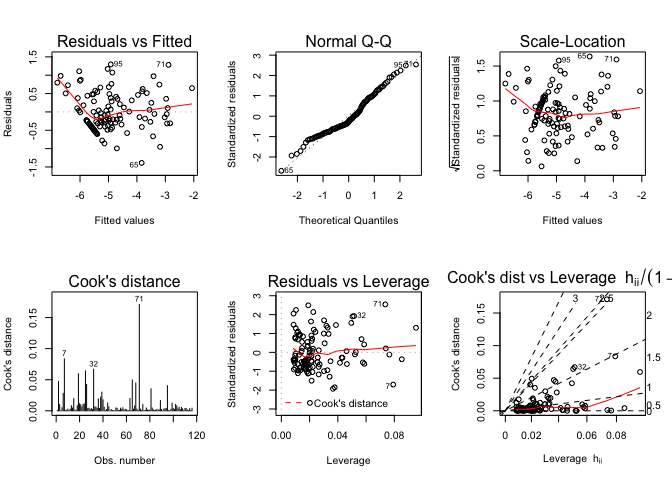
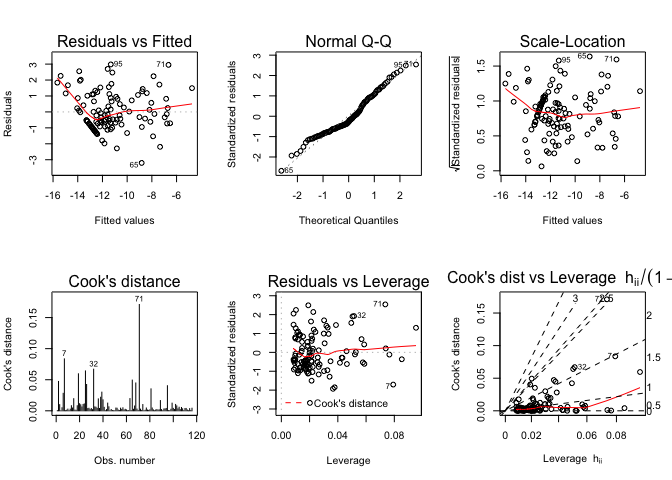
change log10() to log, so that the interpretation of the coef is the elasitic in economics

diff --git a/README.md b/README.md
@@ -57,17 +57,22 @@ Chain](doc/LCA_%20Pet%20Food%20Supply%20Chain%20.png)
 
 # Data description
 
-What kind of data is avialble? How is your data collected? Are there any
-concerns about the data? Which data is the most relevant? Is the data
-easy to acccess? Will the data change over time? What needs to be done
-to the data to get it ready for any downstream analysis?
-
 The dataset for this project is the first pass life cycle assessment
 results for cat and dog food manufacturing. It provides the
 environmental impact information into the pet food supply chain. The LCA
 data was generated through EIO-LCA
 website(<http://www.eiolca.net/cgi-bin/dft/use.pl>). The model for
-getting the LCA data is US 2002 producer price benchmark.
+getting the LCA data is US 2002 producer price benchmark. In order to
+get the dog and cat food manufacturing LCA data, the user needs to
+select “Food beverage and tobacco” sector group, dog and cat food
+manufacturing sector and then the amount of economic activity for this
+sector(e.g. 1 millon dollars). After setting up the sector and economic
+parameters, The user could select different economical and environmental
+impact to get the LCA results. The LCA results are ready for downloading
+as excel files. The raw data was lacking the columns name for different
+impact feature and index for identifying the different sectors and
+sector group. The web scraping is necessary for the columns name and
+NAICS sector code.
 
 # Explore the data
 
@@ -77,7 +82,6 @@ modification, we result a datafarme stored as ’dat\_311111\_1M\_v2.csv.
 ``` r
 # data input
 dat <- read.csv("data/dat_311111_1M_v2.csv")
-
 # Input columns 
 X <- dat %>% 
   select(Coal.TJ, NatGase.TJ, Petrol.TJ, Bio.Waste.TJ, NonFossElec.TJ, Water.Withdrawals.Kgal)
@@ -156,6 +160,8 @@ psych::describe(ys)
 #> POTW.Metal.kg        0.04  7.48    61.88 0.00
 ```
 
+# Clustering for the data
+
 # Fit Models
 
 ## user-define function
@@ -172,12 +178,11 @@ makedata_map <- function(target_nm, dat){
   # retin all inf by log(x + min/100)
   #Xy <- cbind(dat %>% select(Sector) %>% mutate(Sector= Sector %>% as.factor()), log10(Xy + min(Xy[Xy!=0])/100)) 
   # remove all inf= log(0)
-  Xy <- cbind(dat %>% select(Sector), log10(Xy)) 
+  Xy <- cbind(dat %>% select(Sector), log(Xy)) 
   Xy <- Xy[!is.infinite(rowSums(Xy)),] %>% mutate(Sector= Sector %>% as.factor())
   colnames(Xy) <- colnames(Xy) %>% stringr::str_replace_all("\\.","") 
   return(Xy)
 }
-
 bind_coef_star <- function(x) {
   if (stringr::str_detect(x[2] , "\\*")) {
     paste0(x[1], "(",x[2], ")")
@@ -217,7 +222,6 @@ target_list <- tibble(target = c(colnames(CPA),colnames(GHG),colnames(TOX))); ta
 #> 18 Land.kg           
 #> 19 Offiste.kg        
 #> 20 POTW.Metal.kg
-
 # model selection for each impact variable
 bestglm_list <- target_list %>% 
   mutate(data = target %>% 
@@ -232,7 +236,6 @@ bestglm_list <- target_list %>%
   mutate(anv = best_model %>% map(anova)) %>% 
   mutate(statisics = best_model %>% purrr::map(.f = function(m) broom::glance(m))) %>% 
   tidyr::unnest(statisics)
-
 # extract coefficient from the best model of each impact variable
 coef_list <- bestglm_list %>% 
   mutate(coefs = best_model %>% purrr::map(.f=broom::tidy)) %>% 
@@ -240,7 +243,6 @@ coef_list <- bestglm_list %>%
   tidyr::unnest(coefs) %>% 
   select(target, term, estimate) %>% 
   tidyr::spread(key= term, value = estimate)
-
 # extract p-value for each paramters of the best model of each impact variable
 signif_list <- bestglm_list %>% 
   mutate(coefs = best_model %>% purrr::map(.f=broom::tidy)) %>% 
@@ -248,7 +250,6 @@ signif_list <- bestglm_list %>%
   tidyr::unnest(coefs) %>% 
   select(target, term, p.value) %>% 
   tidyr::spread(key= term, value = p.value)
-
 # combind coefficient and p-value to result in a tidy table of the result
 datArray <- abind::abind(coef_list %>% 
                            select(-target) %>% 
@@ -260,7 +261,6 @@ datArray <- abind::abind(coef_list %>%
 coef_signif_list <- bestglm_list %>% 
   select(target, r.squared, adj.r.squared, p.value) %>% 
   cbind(apply(datArray,1:2, bind_coef_star) %>% as_tibble())
-
 # result
 knitr::kable(coef_signif_list)
 ```
@@ -371,7 +371,7 @@ CO.t
 
 <td style="text-align:left;">
 
-\-0.412(\*)
+\-0.948(\*)
 
 </td>
 
@@ -433,7 +433,7 @@ NH3.t
 
 <td style="text-align:left;">
 
-2.3(\*\*\*)
+5.29(\*\*\*)
 
 </td>
 
@@ -497,7 +497,7 @@ NOx.t
 
 <td style="text-align:left;">
 
-1.47(\*\*\*)
+3.39(\*\*\*)
 
 </td>
 
@@ -557,7 +557,7 @@ PM10.t
 
 <td style="text-align:left;">
 
-0.366
+0.842
 
 </td>
 
@@ -617,7 +617,7 @@ PM2.5.t
 
 <td style="text-align:left;">
 
-\-1.9(\*\*\*)
+\-4.38(\*\*\*)
 
 </td>
 
@@ -679,7 +679,7 @@ SO2.t
 
 <td style="text-align:left;">
 
-\-0.33(\*\*)
+\-0.76(\*\*)
 
 </td>
 
@@ -743,7 +743,7 @@ VOC.t
 
 <td style="text-align:left;">
 
-1.19(\*\*\*)
+2.74(\*\*\*)
 
 </td>
 
@@ -803,7 +803,7 @@ Total.t.CO2e
 
 <td style="text-align:left;">
 
-\-0.693(\*\*\*)
+\-1.6(\*\*\*)
 
 </td>
 
@@ -869,7 +869,7 @@ CO2.Fossil.t.CO2e
 
 <td style="text-align:left;">
 
-\-1.08(\*\*\*)
+\-2.48(\*\*\*)
 
 </td>
 
@@ -935,7 +935,7 @@ Fugitive.kg
 
 <td style="text-align:left;">
 
-\-1(\*\*)
+\-2.31(\*\*)
 
 </td>
 
@@ -995,7 +995,7 @@ Stack.kg
 
 <td style="text-align:left;">
 
-0.41(\*\*\*)
+0.945(\*\*\*)
 
 </td>
 
@@ -1059,7 +1059,7 @@ Total.Air.kg
 
 <td style="text-align:left;">
 
-2.26(\*\*\*)
+5.2(\*\*\*)
 
 </td>
 
@@ -1119,7 +1119,7 @@ Surface.water.kg
 
 <td style="text-align:left;">
 
-1.29(\*\*\*)
+2.97(\*\*\*)
 
 </td>
 
@@ -1179,7 +1179,7 @@ Land.kg
 
 <td style="text-align:left;">
 
-2.45(\*\*\*)
+5.65(\*\*\*)
 
 </td>
 
@@ -1241,7 +1241,7 @@ Offiste.kg
 
 <td style="text-align:left;">
 
-2.52(\*\*\*)
+5.8(\*\*\*)
 
 </td>
 
@@ -1307,7 +1307,7 @@ POTW.Metal.kg
 
 <td style="text-align:left;">
 
-\-0.447(\*)
+\-1.03(\*)
 
 </td>
 
@@ -1354,13 +1354,13 @@ good_lm <- bestglm_list %>% filter(adj.r.squared >0.75); good_lm %>% arrange(des
 #> # A tibble: 7 x 16
 #>   target data  top_model best_model anv   r.squared adj.r.squared sigma
 #>   <chr>  <lis> <list>    <list>     <lis>     <dbl>         <dbl> <dbl>
-#> 1 CO2.F… <df[… <bestglm> <lm>       <df[…     0.991         0.991 0.106
-#> 2 Total… <df[… <bestglm> <lm>       <df[…     0.983         0.982 0.151
-#> 3 SO2.t  <df[… <bestglm> <lm>       <df[…     0.928         0.927 0.349
-#> 4 NOx.t  <df[… <bestglm> <lm>       <df[…     0.912         0.910 0.336
-#> 5 PM10.t <df[… <bestglm> <lm>       <df[…     0.889         0.886 0.384
-#> 6 PM2.5… <df[… <bestglm> <lm>       <df[…     0.878         0.875 0.390
-#> 7 NH3.t  <df[… <bestglm> <lm>       <df[…     0.768         0.764 0.524
+#> 1 CO2.F… <df[… <bestglm> <lm>       <df[…     0.991         0.991 0.243
+#> 2 Total… <df[… <bestglm> <lm>       <df[…     0.983         0.982 0.347
+#> 3 SO2.t  <df[… <bestglm> <lm>       <df[…     0.928         0.927 0.803
+#> 4 NOx.t  <df[… <bestglm> <lm>       <df[…     0.912         0.910 0.774
+#> 5 PM10.t <df[… <bestglm> <lm>       <df[…     0.889         0.886 0.885
+#> 6 PM2.5… <df[… <bestglm> <lm>       <df[…     0.878         0.875 0.898
+#> 7 NH3.t  <df[… <bestglm> <lm>       <df[…     0.768         0.764 1.21 
 #> # … with 8 more variables: statistic <dbl>, p.value <dbl>, df <int>,
 #> #   logLik <dbl>, AIC <dbl>, BIC <dbl>, deviance <dbl>, df.residual <int>
 ```
@@ -1424,7 +1424,6 @@ good_lm$target
 # SO2.t: Emissions of Sulfur Dioxide to Air from each sector. t = meric tons 
 # Total.t.CO2e: Global Warming Potential (GWP) is a weighting of greenhouse gas emissions into the air from the production of each sector. Weighting factors are 100-year GWP values from the IPCC Second Assessment Report (IPCC 2001). t CO2e = metric tons of CO2 equivalent emissions. 
 # CO2.Fossil.t.CO2e C: Emissions of Carbon Dioxide (CO2) into the air from each sector from fossil fuel combustion sources. t CO2e = metric tons of CO2 equivalent.
-
 par(mfrow=c(1,2))
 plot(good_lm$data[[1]][,ncol(good_lm$data[[1]])])
 plot(good_lm$data[[1]][,1], good_lm$data[[1]][,ncol(good_lm$data[[1]])])
@@ -1433,7 +1432,6 @@ plot(good_lm$data[[1]][,1], good_lm$data[[1]][,ncol(good_lm$data[[1]])])
 <img src="man/figures/README-unnamed-chunk-10-1.png" width="100%" />
 
 ``` r
-
 plot(good_lm$data[[2]][,ncol(good_lm$data[[2]])])
 plot(good_lm$data[[2]][,1], good_lm$data[[2]][,ncol(good_lm$data[[2]])])
 ```
@@ -1441,7 +1439,6 @@ plot(good_lm$data[[2]][,1], good_lm$data[[2]][,ncol(good_lm$data[[2]])])
 <img src="man/figures/README-unnamed-chunk-10-2.png" width="100%" />
 
 ``` r
-
 plot(good_lm$data[[3]][,ncol(good_lm$data[[3]])])
 plot(good_lm$data[[3]][,1], good_lm$data[[3]][,ncol(good_lm$data[[3]])])
 ```
@@ -1449,7 +1446,6 @@ plot(good_lm$data[[3]][,1], good_lm$data[[3]][,ncol(good_lm$data[[3]])])
 <img src="man/figures/README-unnamed-chunk-10-3.png" width="100%" />
 
 ``` r
-
 plot(good_lm$data[[4]][,ncol(good_lm$data[[4]])])
 plot(good_lm$data[[4]][,1], good_lm$data[[4]][,ncol(good_lm$data[[4]])])
 ```
